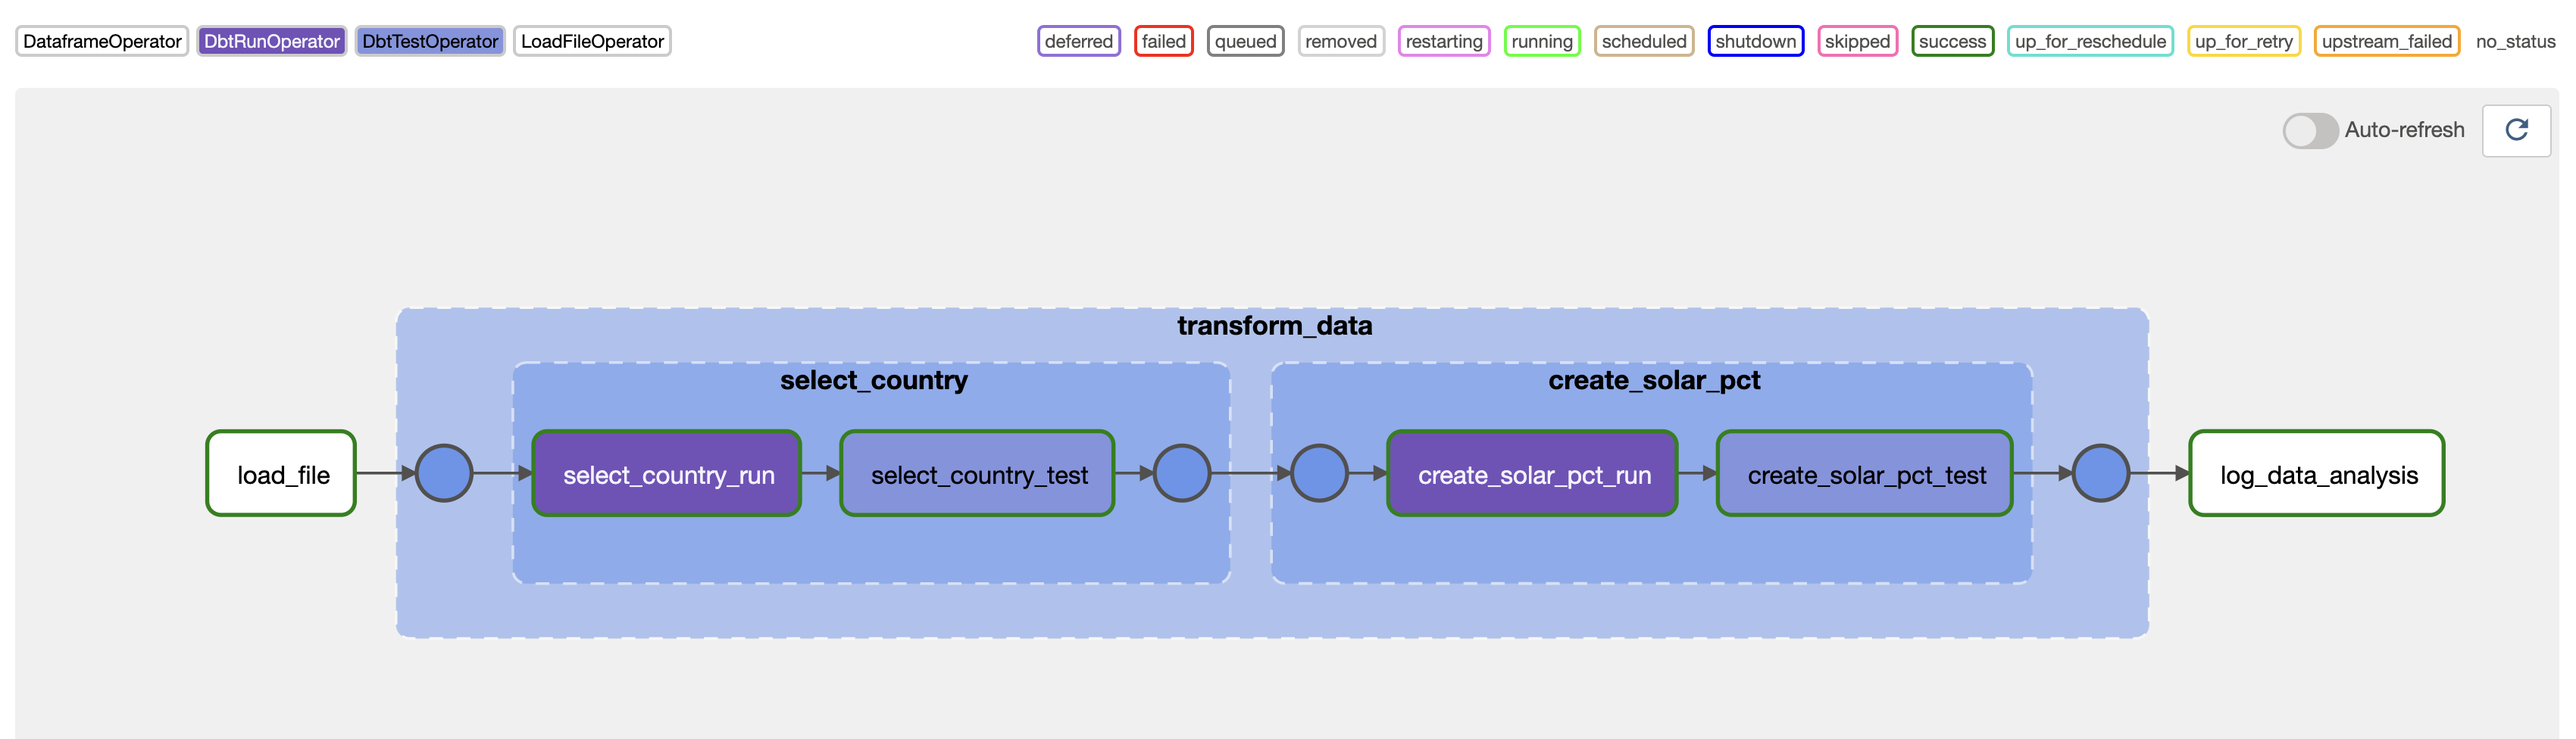
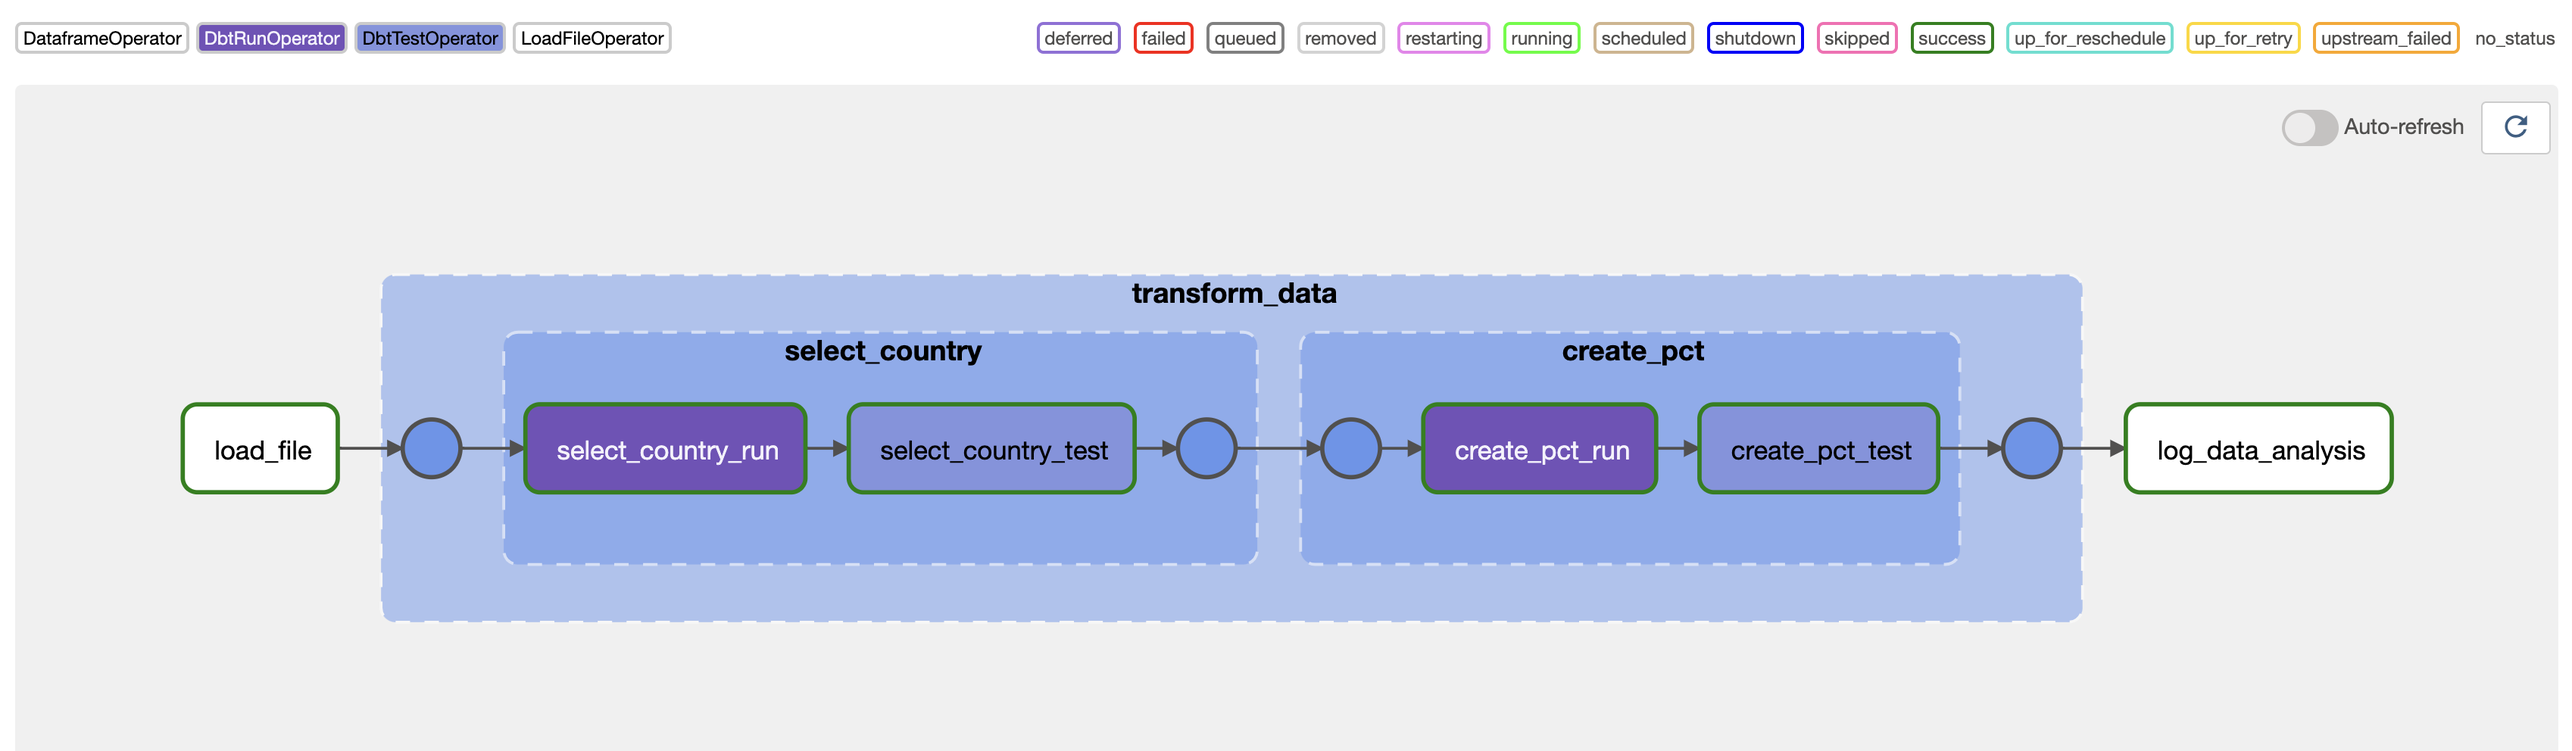
readthrough edits

diff --git a/code-samples/dags/airflow-dbt-cosmos/cosmos_dag.py b/code-samples/dags/airflow-dbt-cosmos/cosmos_dag.py
@@ -56,7 +56,7 @@ def log_data_analysis(df: pd.DataFrame):
 
 
 @dag(
-    start_date=datetime(2022, 11, 27),
+    start_date=datetime(2023, 3, 26),
     schedule=None,
     catchup=False,
 )
@@ -93,7 +93,7 @@ def my_energy_dag():
         >> dbt_tg
         >> log_data_analysis(
             Table(
-                name="create_solar_pct",
+                name="create_pct",
                 metadata=Metadata(
                     database=DB_NAME,
                     schema=SCHEMA_NAME,

diff --git a/learn/airflow-dbt-cosmos.md b/learn/airflow-dbt-cosmos.md
@@ -24,7 +24,7 @@ This tutorial takes approximately 1 hour to complete.
 
 To get the most out of this tutorial, make sure you have an understanding of:
 
-- The basics of dbt Core. See dbt's [What is dbt?](https://docs.getdbt.com/docs/introduction) documentation.
+- The basics of dbt Core. See [What is dbt?](https://docs.getdbt.com/docs/introduction).
 - Airflow fundamentals, such as writing DAGs and defining tasks. See [Get started with Apache Airflow](get-started-with-airflow.md).
 - Airflow operators. See [Operators 101](what-is-an-operator.md).
 - Airflow task groups. See [Airflow task groups](task-groups.md).
@@ -32,7 +32,7 @@ To get the most out of this tutorial, make sure you have an understanding of:
 ## Prerequisites
 
 - The [Astro CLI](https://docs.astronomer.io/astro/cli).
-- Access to an instance of one a data warehouse supported by dbt. View the [dbt documentation](https://docs.getdbt.com/docs/supported-data-platforms) for an up-to-date list of adapters. This tutorial will use a local PostgreSQL database.
+- Access to an instance of a data warehouse supported by dbt Core. View the [dbt documentation](https://docs.getdbt.com/docs/supported-data-platforms) for an up-to-date list of adapters. This tutorial will use a local [PostgreSQL](https://www.postgresql.org/) database.
 
 You do not need to have dbt Core installed locally in order to complete this tutorial.
 
@@ -82,7 +82,7 @@ This tutorial uses a subset of the following dataset: [Open Power System Data. 2
 
 In your data warehouse create a new database called `energy_db` with a schema called `energy_schema`. Refer to the documentation of the database of your choice for instructions on how to create databases and schemas. If you are using [`psql`](https://www.postgresguide.com/utilities/psql/) with a Postgres database use the commands below:
 
-```SQL
+```sql
 CREATE DATABASE energy_db;
 \connect energy_db
 CREATE SCHEMA energy_schema;
@@ -90,7 +90,7 @@ CREATE SCHEMA energy_schema;
 
 ## Step 4: Create your dbt models
 
-In this tutorial we will use an example dbt job that consists of two dbt models. The first model called `select_country` will select the data for a specific country. The second model `create_solar_pct` will use the table created by the first model to calculate the percentage of renewable and solar energy capacity in the country you selected.
+In this tutorial we will use an example dbt job that consists of two dbt models. The first model called `select_country` will select the data for a specific country. The second model `create_pct` will use the table created by the first model to calculate the percentage of renewable and solar energy capacity in the country you selected.
 
 1. Create a folder called `dbt` in your Astro project. The Astronomer dbt provider will by default look for dbt projects in a `dbt` directory inside of your `AIRFLOW_HOME` directory, this behavior can be overridden on the `DbtDAG` or `DbtTaskGroup` level by setting `dbt_root_path`.
 
@@ -125,18 +125,18 @@ In this tutorial we will use an example dbt job that consists of two dbt models.
 
 4. Within `my_energy_project` create a sub-directory called `models`.
 
-5. Create a SQL file named `select_country.sql` within the `models` folder. Copy the following dbt model into the file and specify the code of the country you want to analyze. The underlying data contains energy capacity information for european countries, you can for example use `GB` to select data from Great Britain or `FR` for data from France.
+5. Create a SQL file named `select_country.sql` within the `models` folder. Copy the following dbt model into the file and specify the code of the country you want to analyze. The underlying data contains energy capacity information for several European countries, you can for example use `GB` to select data from Great Britain or `FR` for data from France.
 
-    ```SQL
+    ```sql
     select 
         "YEAR", "COUNTRY", "SOLAR_CAPACITY", "TOTAL_CAPACITY", "RENEWABLES_CAPACITY"
     from cosmos_db.cosmos_schema.energy
     where "COUNTRY" = '<two letter country code>'
     ```
 
-6. Create a SQL file named `create_solar_pct.sql` within the `models` folder. Copy the following dbt model into the file:
+6. Create a SQL file named `create_pct.sql` within the `models` folder. Copy the following dbt model into the file:
 
-    ```SQL
+    ```sql
     select 
         "YEAR", "COUNTRY", "SOLAR_CAPACITY", "TOTAL_CAPACITY", "RENEWABLES_CAPACITY",
         "SOLAR_CAPACITY" / "TOTAL_CAPACITY" AS "SOLAR_PCT",
@@ -177,7 +177,7 @@ You should now have the following structure within your Astro project:
 │      ├── dbt_project.yml
 │      └── models
 │          ├── select_country.sql
-│          └── create_solar_pct.sql
+│          └── create_pct.sql
 ├── include
 │   └── subset_energy_capacity.csv
 └── docker-compose.override.yml
@@ -189,7 +189,7 @@ You should now have the following structure within your Astro project:
 
 2. In the Airflow UI, go to **Admin** -> **Connections** and click **+**. 
 
-3. Create a new connection named `db_conn` and choose the `Postgres` connection type. Adjust the connection type and supplied parameters based on which data warehouse you are using, note that for some tools you might need to add the [relevant provider package](https://registry.astronomer.io/) to `requirements.txt` and restart Airflow, in order to have the correct connection type. For a Postgres connection, enter the following information:
+3. Create a new connection named `db_conn`. Select the connection type and supplied parameters based on which data warehouse you are using, note that for some tools you might need to add the [relevant provider package](https://registry.astronomer.io/) to `requirements.txt` and restart Airflow, in order to have the correct connection type. For a Postgres connection, enter the following information:
 
     - Connection ID: `db_conn`.
     - Connection Type: `Postgres`.
@@ -215,14 +215,13 @@ The DAG used in this tutorial shows how you can use the Astronomer dbt provider 
     - the `transform_data` task group is created from the dbt models. Using the models defined in Step 4, the task group will contain two nested task groups with two tasks each, one for `dbt run`, the other for `dbt test`.
     - the `log_data_analysis` task uses the [Astro Python SDK dataframe operator](https://astro-sdk-python.readthedocs.io/en/stable/astro/sql/operators/dataframe.html) to use pandas to run an analysis on the final table created through the dbt models and logs the results.
 
-3. Run the DAG and view the DAG in the graph view (double click on the task groups in order to expand them). 
+3. Run the DAG manually by clicking on the play button and view the DAG in the graph view (double click on the task groups in order to expand them). 
 
     ![Cosmos DAG graph view](/img/guides/cosmos_dag_graph_view.png)
 
 4. Navigate to the logs of the `log_data_analysis` task to see the proportional solar and renewable energy capacity development in the country you selected.
 
     ![Energy Analysis logs](/img/guides/cosmos_energy_analysis_logs.png)
-
 
 ## Conclusion
 
